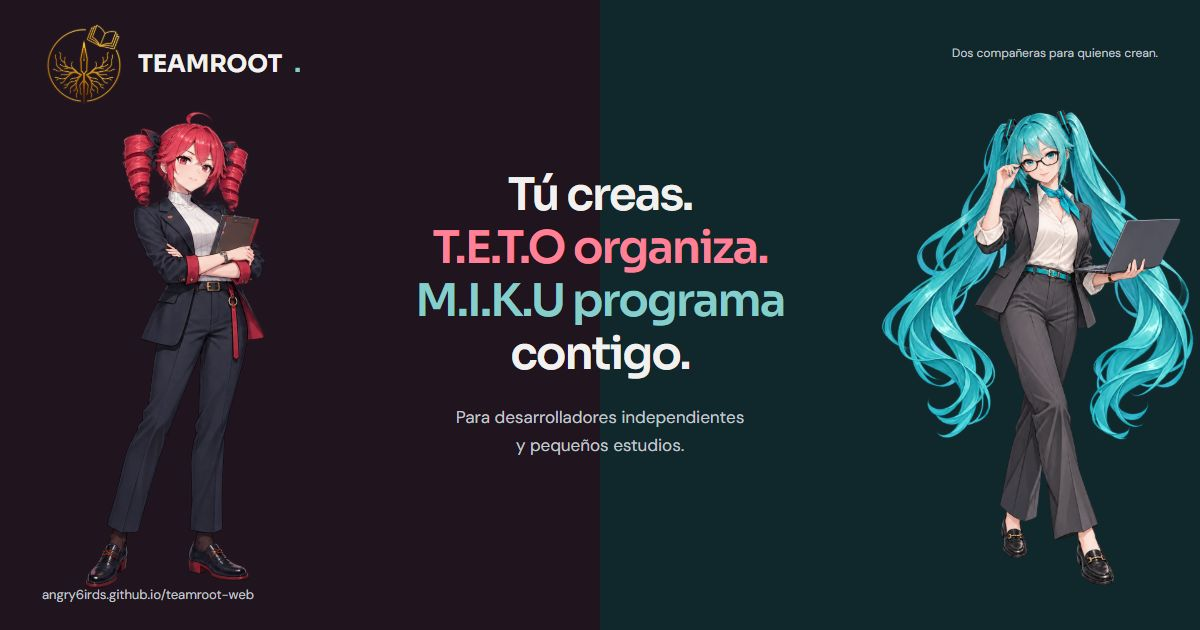
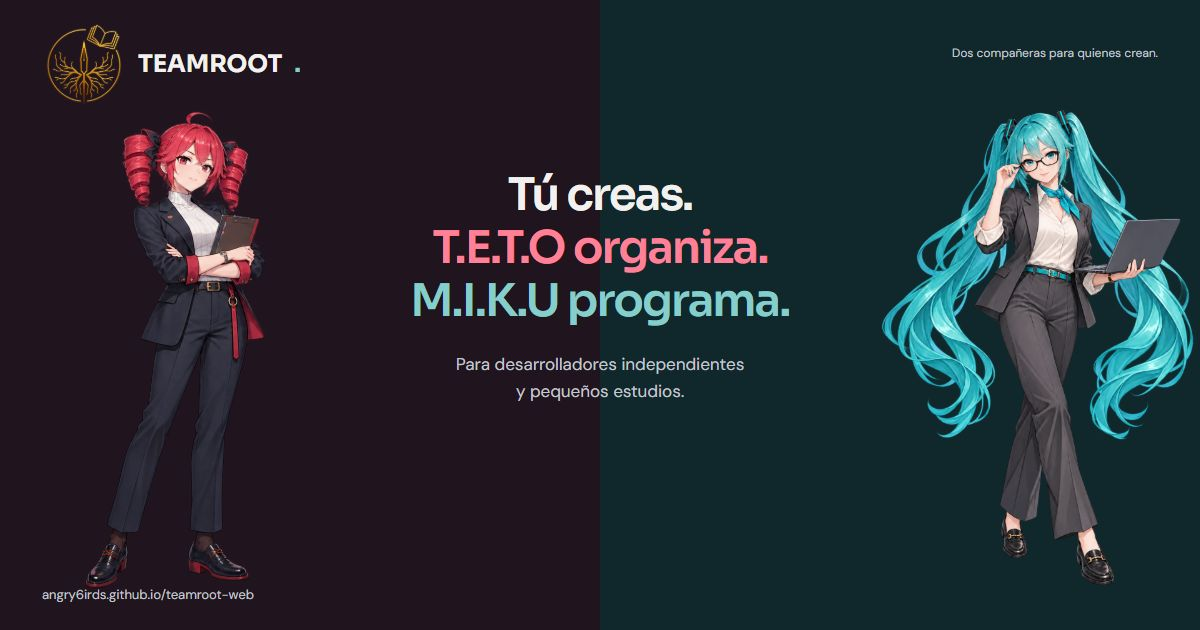
fix: shorten the main assistant slogan

Changed region(s): [[0.3392, 0.4524, 0.6783, 0.7238]]

diff --git a/index.html b/index.html
@@ -10,15 +10,15 @@
   <meta property="og:type" content="website">
   <meta property="og:locale" content="es_MX">
   <meta property="og:title" content="TEAMROOT — T.E.T.O & M.I.K.U">
-  <meta property="og:description" content="Tú creas. T.E.T.O organiza. M.I.K.U programa contigo. Dos compañeras para desarrolladores independientes y pequeños estudios.">
+  <meta property="og:description" content="Tú creas. T.E.T.O organiza. M.I.K.U programa. Dos compañeras para desarrolladores independientes y pequeños estudios.">
   <meta property="og:url" content="https://angry6irds.github.io/teamroot-web/">
-  <meta property="og:image" content="https://angry6irds.github.io/teamroot-web/assets/social-preview.png?v=4">
+  <meta property="og:image" content="https://angry6irds.github.io/teamroot-web/assets/social-preview.png?v=5">
   <meta property="og:image:width" content="1200"><meta property="og:image:height" content="630">
   <meta property="og:image:alt" content="TEAMROOT: T.E.T.O y M.I.K.U, compañeras de gestión y programación">
   <meta name="twitter:card" content="summary_large_image">
   <meta name="twitter:title" content="TEAMROOT — T.E.T.O & M.I.K.U">
-  <meta name="twitter:description" content="Tú creas. T.E.T.O organiza. M.I.K.U programa contigo.">
-  <meta name="twitter:image" content="https://angry6irds.github.io/teamroot-web/assets/social-preview.png?v=4">
+  <meta name="twitter:description" content="Tú creas. T.E.T.O organiza. M.I.K.U programa.">
+  <meta name="twitter:image" content="https://angry6irds.github.io/teamroot-web/assets/social-preview.png?v=5">
   <link rel="stylesheet" href="style.css?v=8">
 </head>
 <body>
@@ -56,7 +56,7 @@
         <div class="giant-names" aria-hidden="true"><span>T.E.T.O</span><span>M.I.K.U</span></div>
         <div class="home-teto"><img src="assets/duo-studio.png" alt="T.E.T.O, supervisora de cabello rojo con traje y carpeta de auditoría. Representación provisional."></div>
         <img class="home-office" src="assets/miku-oficinista.png" alt="M.I.K.U, con gafas, blazer, pañuelo turquesa y portátil. Representación provisional.">
-        <div class="hero-copy"><h1 id="home-title" tabindex="-1">Tú creas.<br><span class="red">T.E.T.O organiza.</span><br><span class="teal">M.I.K.U programa</span><br>contigo.</h1>
+        <div class="hero-copy"><h1 id="home-title" tabindex="-1">Tú creas.<br><span class="red">T.E.T.O organiza.</span><br><span class="teal">M.I.K.U programa.</span></h1>
           <p>Dos compañeras de TEAMROOT para tu próximo gran proyecto.<br>Para quienes crean en solitario o en un pequeño estudio.</p>
           <div class="invitation">Conoce a T.E.T.O y M.I.K.U<svg viewBox="0 0 24 24" fill="none" aria-hidden="true"><path d="m7 10 5 5 5-5" stroke="currentColor" stroke-width="1.5"/></svg></div>
           <div class="selection-voice" aria-hidden="true"><span class="voice-default">Elige quién te acompaña primero.</span><span class="voice-teto">«Primero, vamos a revisar ese cambio.»</span><span class="voice-miku">«A ver esa idea. La construimos juntos.»</span></div>
